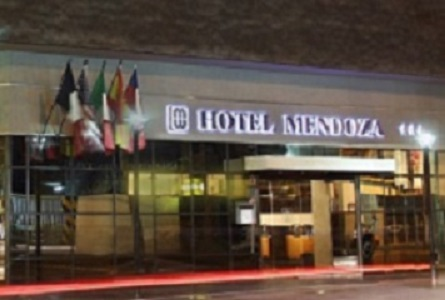
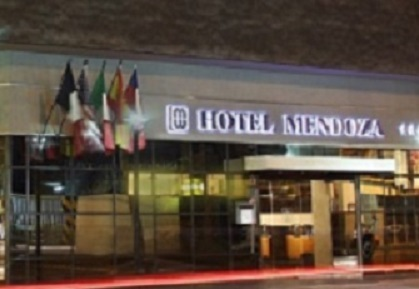
ajustando alojamiento e imagenes

diff --git a/Django__Grupo_6/Django/codo_codo_2023/Viajeros/templates/Viajeros/paginas/alojamiento.html b/Django__Grupo_6/Django/codo_codo_2023/Viajeros/templates/Viajeros/paginas/alojamiento.html
@@ -17,24 +17,24 @@
 <div class="row">
 
       <div class="col-md-4">
-          <div class="card" style="width:350px">
+          <div class="card d-inline-block " style="width:350px">
             <div class="p-3 border bg-dark warning text-white">
-                <img class="card-img-top" src="{% static 'Viajeros/img/hotel_mendoza.jpg' %}" alt="Card image">
+                <img class="card-img-top" src="{% static 'Viajeros/img/hotel_mendoza2.jpg' %}" alt="Card image">
                 <div class="card-body">
-                  <h4 class="card-title">HOTEL MENDOZA</h4>
-                  <p class="card-text">Dirección: Av España 1210 – Mendoza, Argentina. Hotel Mendoza, se ubica en pleno centro de Mendoza, a una cuadra de la avenida Peatonal</p>
+                  <h4 class="card-title fs-1">HOTEL MENDOZA</h4>
+                  <p class="card-text">Dirección: Av España 1210 – Mendoza, Argentina. Hotel Mendoza, se ubica en pleno centro de Mendoza, a una cuadra de la avenida Peatonal.El Hotel cuenta con jacuzzi con una espectacular vista a la Cordillera de los Andes, sauna y gimnasio, completo desayuno buffet.</p>
                   <a href="{% url 'enviar_consulta' %}" class="btn btn-primary">Enviar Reserva</a>
                 </div>
             </div>
           </div>
       </div>
       <div class="col-md-4">
-        <div class="card" style="width:350px">
+        <div class="card d-inline-block" style="width:350px">
           <div class="p-3 border bg-dark warning text-white">
-              <img class="card-img-top" src="{% static 'Viajeros/img/Puesta_Sol.jpg' %}" alt="Card image">
+              <img class="card-img-top" src="{% static 'Viajeros/img/Puesta_Sol2.jpg' %}" alt="Card image">
               <div class="card-body">
-                <h4 class="card-title">PUESTA DEL SOL - SAN RAFAEL</h4>
-                <p class="card-text">Dirección: Calle 20 de Junio 715 - San Rafael – Mendoza, Argentina. Hotel Puesta del Sol , ofrece los servicios más populares son piscina, restaurante y bar/salón </p>
+                <h4 class="card-title fs-1">PUESTA DEL SOL - SAN RAFAEL</h4>
+                <p class="card-text">Dirección: Calle 20 de Junio 715 - San Rafael – Mendoza, Argentina. Hotel Puesta del Sol , ofrece los servicios más populares son piscina, restaurante y bar/salón. </p>
                 <a href="{% url 'enviar_consulta' %}" class="btn btn-primary">Enviar Reserva</a>
               </div>
           </div>
@@ -42,12 +42,12 @@
     </div>
 
     <div class="col-md-4">
-      <div class="card" style="width:350px">
+      <div class="card d-inline-block" style="width:350px">
         <div class="p-3 border bg-dark warning text-white">
             <img class="card-img-top" src="{% static 'Viajeros/img/algodon_wine.jpg' %}" alt="Card image">
             <div class="card-body">
-              <h4 class="card-title">HOTEL ALGODON WINE STATES</h4>
-              <p class="card-text">Dirección: RN 144, KM 144 – San Rafael, Mendoza, Argentina.Los huéspedes pueden disfrutar de desayuno incluido, restaurante y té de cortesía durante su estadía</p>
+              <h4 class="card-title fs-1">HOTEL ALGODON WINE STATES</h4>
+              <p class="card-text">Dirección: RN 144, KM 144 – San Rafael, Mendoza, Argentina.Los huéspedes pueden disfrutar de desayuno incluido, restaurante y té de cortesía durante su estadía.</p>
               <a href="{% url 'enviar_consulta' %}" class="btn btn-primary">Enviar Reserva</a>
             </div>
         </div>
